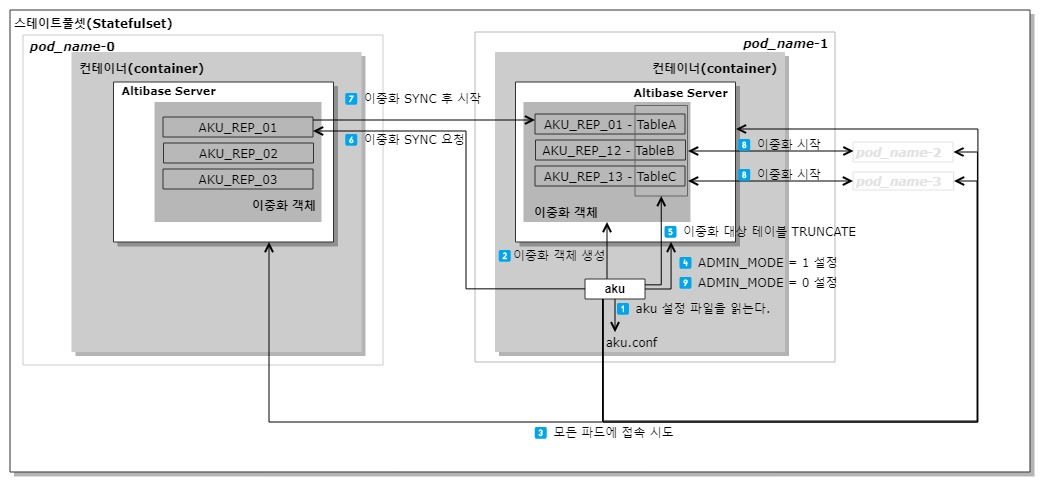
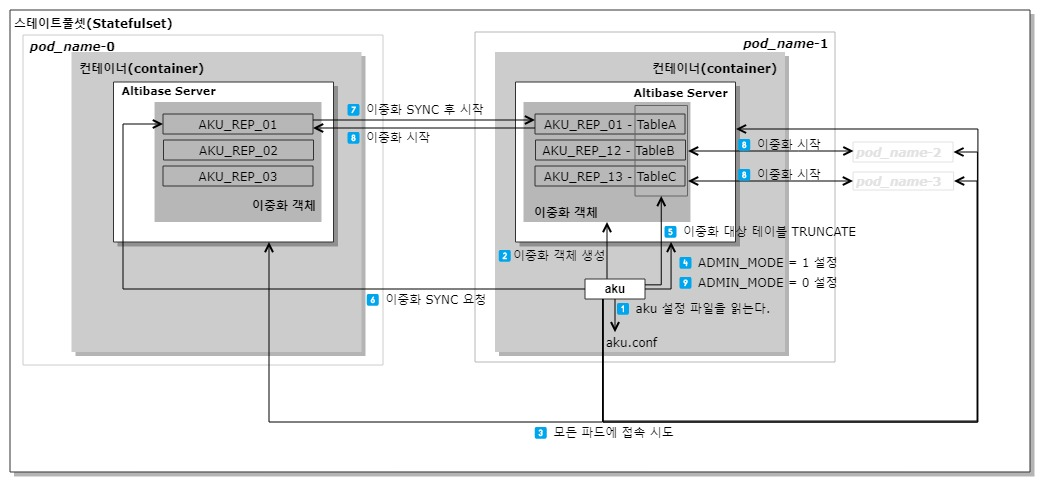
Apply suggestions from code review

Changed region(s): [[0.1219, 0.1829, 0.4876, 0.3963], [0.1219, 0.5793, 0.5486, 0.6402]]

diff --git a/Manuals/Altibase_trunk/kor/Utilities Manual.md b/Manuals/Altibase_trunk/kor/Utilities Manual.md
@@ -2190,7 +2190,7 @@ Altibase 이중화 객체를 생성하고 데이터를 동기화하는 작업을
   <div align="left">
       <img src="media/Utilities/aku_p_start_slave_pod.jpg"></img>
   </div>
-
+  
   
   1⃣ aku.conf 파일을 읽는다.
   
@@ -2206,7 +2206,7 @@ Altibase 이중화 객체를 생성하고 데이터를 동기화하는 작업을
   
   7⃣ *pod_name*-0에서 *pod_name*-1로 이중화 SYNC를 수행하고 이중화를 시작한다. 
   
-  8⃣ *pod_name*-1에서 *pod_name*-2, *pod_name*-3으로 이중화를 시작하고, 모든 파드에 이중화 시작을 요청한다. *pod_name*-2, *pod_name*-3은 생성되기 전이기 때문에 이중화 시작은 실패한다. 이는 정상적인 동작이다. *pod_name*-2, *pod_name*-3이 생성되고 이중화 할 수 있는 준비가 되면 각 파드에서 aku -p start 수행으로 이중화가 시작된다.
+  8⃣ *pod_name*-1에서 *pod_name*-0, *pod_name*-2, *pod_name*-3으로 이중화를 시작하고, 모든 파드에 이중화 시작을 요청한다. *pod_name*-2, *pod_name*-3은 생성되기 전이기 때문에 이중화 시작은 실패한다. 이는 정상적인 동작이다. *pod_name*-2, *pod_name*-3이 생성되고 이중화 할 수 있는 준비가 되면 각 파드에서 aku -p start 수행으로 이중화가 시작된다.
   
   9⃣ *pod_name*-1의 Altibase 서버 프로퍼티 ADMIN_MODE를 0으로 설정하여 데이터베이스 사용자의 접속을 허용한다. 
   
